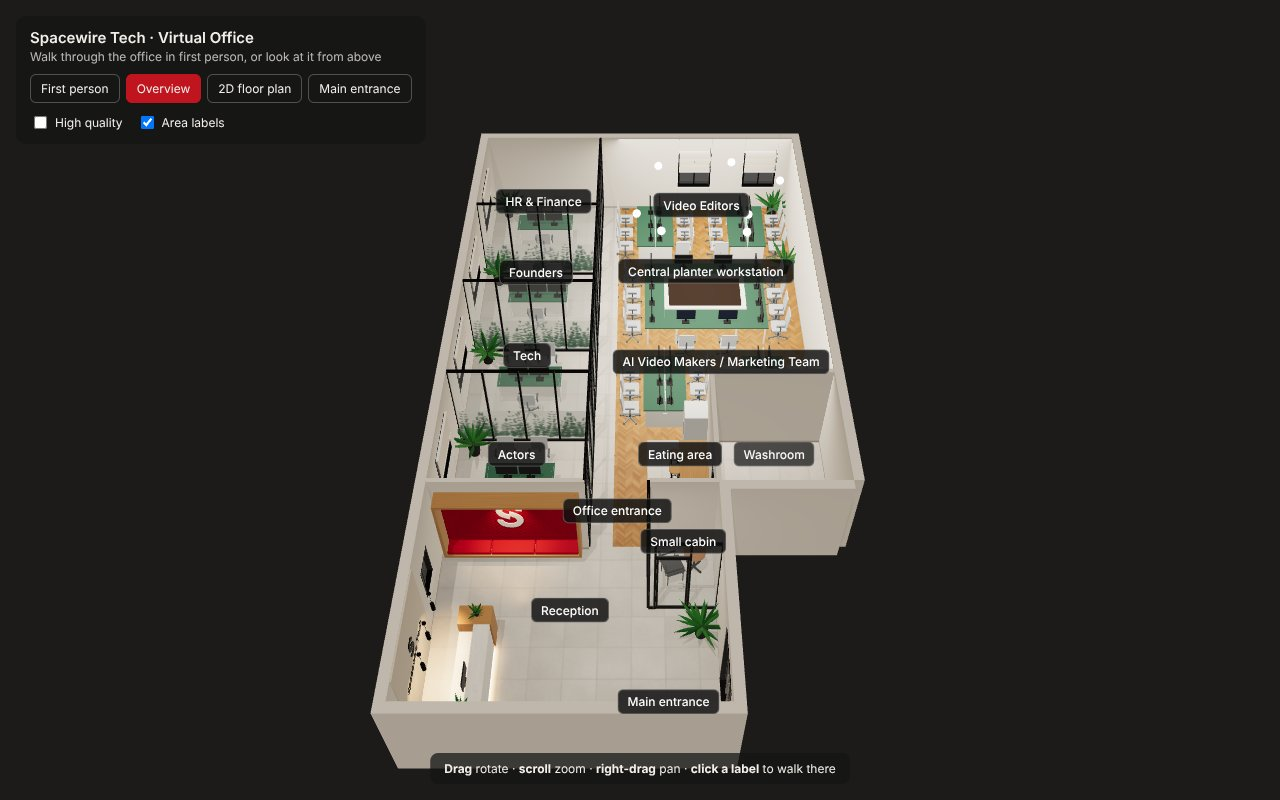
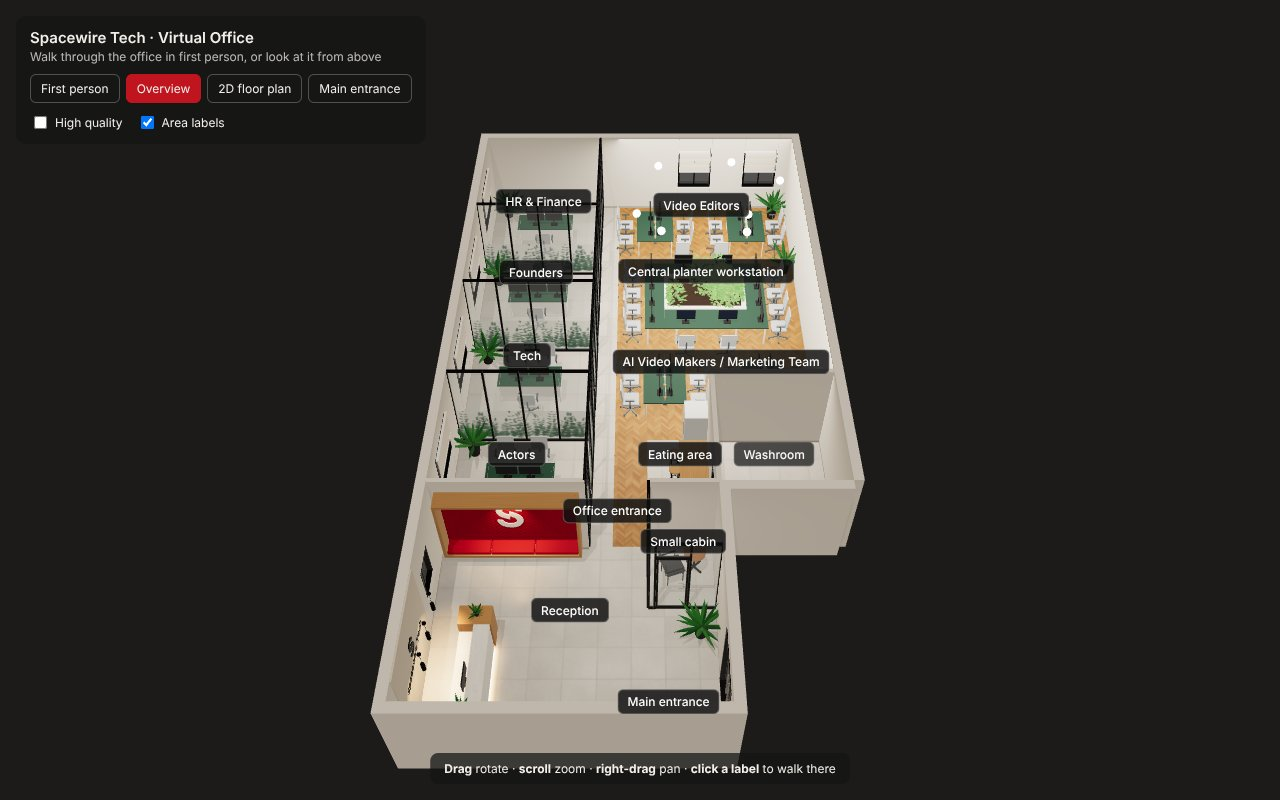
Make workspace benches 4-seaters, matching the office photo
Each bench table seats 2 per side (4 chairs), not 3 per side. The bench
also follows the photo: deep green top, white corner legs and a separate
cream divider panel on wooden feet for each facing seat pair.

Collision map, 2D plan and docs screenshots updated; the reachability
test still passes for every room and hotspot.

Claude-Session: https://claude.ai/code/session_012tL4mVKR8eCgzvLUKRoGLQ

Changed region(s): [[0.4688, 0.25, 0.625, 0.4375], [0.4688, 0.4688, 0.5625, 0.5312]]

diff --git a/src/scene/OfficeFurniture.tsx b/src/scene/OfficeFurniture.tsx
@@ -124,7 +124,8 @@ export function Monitors() {
 }
 
 // ---------------------------------------------------------------------------
-// Double-sided bench desk (green tops, white frame, fabric divider)
+// Double-sided bench desk, as in the office photo: deep green top, white
+// corner legs, one cream divider panel per facing seat pair (on wooden feet).
 // ---------------------------------------------------------------------------
 function BenchDesk({ bench }: { bench: (typeof BENCHES)[number] }) {
   const m = getMaterials()
@@ -132,18 +133,32 @@ function BenchDesk({ bench }: { bench: (typeof BENCHES)[number] }) {
   const cx = bench.center[0]
   const h = BENCH.height
   const t = 0.03
+  const legs: [number, number][] = [
+    [r.x0 + 0.06, r.z0 + 0.06],
+    [r.x1 - 0.06, r.z0 + 0.06],
+    [r.x0 + 0.06, r.z1 - 0.06],
+    [r.x1 - 0.06, r.z1 - 0.06],
+  ]
+  const screens = Array.from({ length: bench.seatsPerSide }, (_, i) => r.z0 + BENCH.seatWidth * (i + 0.5))
+  const screenW = BENCH.seatWidth - 0.1
   return (
     <group>
-      <BoxFromTo min={[r.x0, h - t, r.z0]} max={[cx - 0.01, h, r.z1]} material={m.greenTable} />
-      <BoxFromTo min={[cx + 0.01, h - t, r.z0]} max={[r.x1, h, r.z1]} material={m.greenTable} />
-      {/* fabric divider between facing desks */}
-      <BoxFromTo min={[cx - 0.015, h, r.z0 + 0.02]} max={[cx + 0.015, h + 0.38, r.z1 - 0.02]} material={m.fabricDivider} />
-      {/* white end and middle supports */}
-      {[r.z0 + 0.02, (r.z0 + r.z1) / 2, r.z1 - 0.05].map((z) => (
-        <BoxFromTo key={z} min={[r.x0 + 0.05, 0, z]} max={[r.x1 - 0.05, h - t, z + 0.03]} material={m.whiteLaminate} />
+      <BoxFromTo min={[r.x0, h - t, r.z0]} max={[r.x1, h, r.z1]} material={m.greenTable} />
+      {legs.map(([x, z], i) => (
+        <mesh key={i} position={[x, (h - t) / 2, z]} material={m.whiteLaminate} castShadow>
+          <cylinderGeometry args={[0.022, 0.016, h - t, 12]} />
+        </mesh>
       ))}
-      {/* cable spine */}
-      <BoxFromTo min={[cx - 0.06, 0.55, r.z0]} max={[cx + 0.06, 0.62, r.z1]} material={m.whiteLaminate} />
+      {/* cable spine under the centre line */}
+      <BoxFromTo min={[cx - 0.05, 0.55, r.z0 + 0.1]} max={[cx + 0.05, 0.6, r.z1 - 0.1]} material={m.officeChairFrame} />
+      {screens.map((z) => (
+        <group key={z} position={[cx, h, z]}>
+          <BoxFromTo min={[-0.01, 0.05, -screenW / 2]} max={[0.01, 0.41, screenW / 2]} material={m.deskScreen} />
+          {[-1, 1].map((s) => (
+            <BoxFromTo key={s} min={[-0.04, 0, s * (screenW / 2 - 0.1) - 0.02]} max={[0.04, 0.09, s * (screenW / 2 - 0.1) + 0.02]} material={m.wood} />
+          ))}
+        </group>
+      ))}
     </group>
   )
 }

diff --git a/src/config/office.ts b/src/config/office.ts
@@ -368,14 +368,14 @@ export const CABIN_FURNITURE = {
 // ---------------------------------------------------------------------------
 // Open workspace
 // ---------------------------------------------------------------------------
-/** Double-sided bench desks (long axis north-south, chairs on west and east). */
+/** Double-sided bench desks (long axis north-south): 2 seats per side = 4 chairs, as in the office photo. */
 export const BENCHES = [
-  { id: 've-1', group: 'Video Editors', center: [5.5, 1.95] as XZ, seatsPerSide: 3 },
-  { id: 've-2', group: 'Video Editors', center: [8.5, 1.95] as XZ, seatsPerSide: 3 },
-  { id: 'ai-1', group: 'AI Video Makers / Marketing Team', center: [5.7, 9.0] as XZ, seatsPerSide: 3 },
-  { id: 'ai-2', group: 'AI Video Makers / Marketing Team', center: [8.55, 9.0] as XZ, seatsPerSide: 3 },
+  { id: 've-1', group: 'Video Editors', center: [5.5, 1.95] as XZ, seatsPerSide: 2 },
+  { id: 've-2', group: 'Video Editors', center: [8.5, 1.95] as XZ, seatsPerSide: 2 },
+  { id: 'ai-1', group: 'AI Video Makers / Marketing Team', center: [5.7, 9.0] as XZ, seatsPerSide: 2 },
+  { id: 'ai-2', group: 'AI Video Makers / Marketing Team', center: [8.55, 9.0] as XZ, seatsPerSide: 2 },
 ]
-export const BENCH = { seatWidth: 0.7, deskDepth: 0.6, height: 0.75 }
+export const BENCH = { seatWidth: 0.78, deskDepth: 0.6, height: 0.75 }
 
 /** Central planter workstation: white-bordered planter, green tables on all four sides. */
 export const PLANTER_WORKSTATION = {

diff --git a/src/scene/materials.ts b/src/scene/materials.ts
@@ -150,6 +150,7 @@ function make() {
     }),
     planterRim: new THREE.MeshStandardMaterial({ color: COLORS.planterRim, roughness: 0.5 }),
     fabricDivider: new THREE.MeshStandardMaterial({ color: '#e7e4dc', roughness: 0.9 }),
+    deskScreen: new THREE.MeshStandardMaterial({ color: COLORS.deskScreen, roughness: 0.6 }),
     fridge: new THREE.MeshStandardMaterial({ color: COLORS.fridge, roughness: 0.3, metalness: 0.5 }),
     washroomDoor: new THREE.MeshStandardMaterial({ color: COLORS.washroomDoor, roughness: 0.45 }),
 

diff --git a/src/config/appearance.ts b/src/config/appearance.ts
@@ -31,8 +31,9 @@ export const COLORS = {
   chairFabric: '#3b3b3d',
   tableTop: '#d8b98e',
   // Open workspace (annotated plan image)
-  greenTable: '#3d6a54',
+  greenTable: '#2f5443', // deep green table tops (office photo)
   whiteLaminate: '#f0efeb',
+  deskScreen: '#ece4d2', // cream desk divider panels
   officeChair: '#c3c7cb',
   officeChairFrame: '#7f858b',
   monitor: '#1a1b1e',

diff --git a/README.md b/README.md
@@ -58,7 +58,7 @@ The annotated floor plan image is the source of truth for positions. It was read
 - **Reception** (bottom left): the main entrance is in its east wall and you walk in facing west. The reception desk is straight ahead, with the logo wall and window behind it on the west wall. The red Spacewire feature wall with its bench is on the right, on the south face of the Actors cabin wall. The small interview cabin, with one table and one chair, is in the reception's north-east corner next to the entrance.
 - **Office entrance**: an open passage, with no door or gate, between the end of the red wall and the small cabin. It leads north into the cabin corridor and the open workspace.
 - **Four cabins** along the west wall, from north to south: HR & Finance, Founders, Tech, Actors. Each has a black-framed glass front on the corridor with a door near its south end, and frosted botanical film on the lower glass. The dividers between cabins are the same glass. The corridor is open to the workspace, with no wall between them.
-- **Open workspace**: wooden herringbone floor. Video Editors (two six-seat benches) at the north end. The central planter workstation in the middle: a white-bordered planter with greenery, green tables on all four sides and 12 seats. AI Video Makers / Marketing Team (two six-seat benches) below it.
+- **Open workspace**: wooden herringbone floor. Video Editors (two four-seat benches: 2 chairs per side, cream divider panels) at the north end. The central planter workstation in the middle: a white-bordered planter with greenery, green tables on all four sides and 12 seats. AI Video Makers / Marketing Team (two four-seat benches) below it.
 - **Eating area and washroom**: the eating area has a lunch counter with stools and a fridge along the washroom wall. The washroom door is entered from the eating area. Only the washroom's closed exterior and door are modelled.
 - **Stairs** (bottom right) are excluded from the model, as instructed.
 
